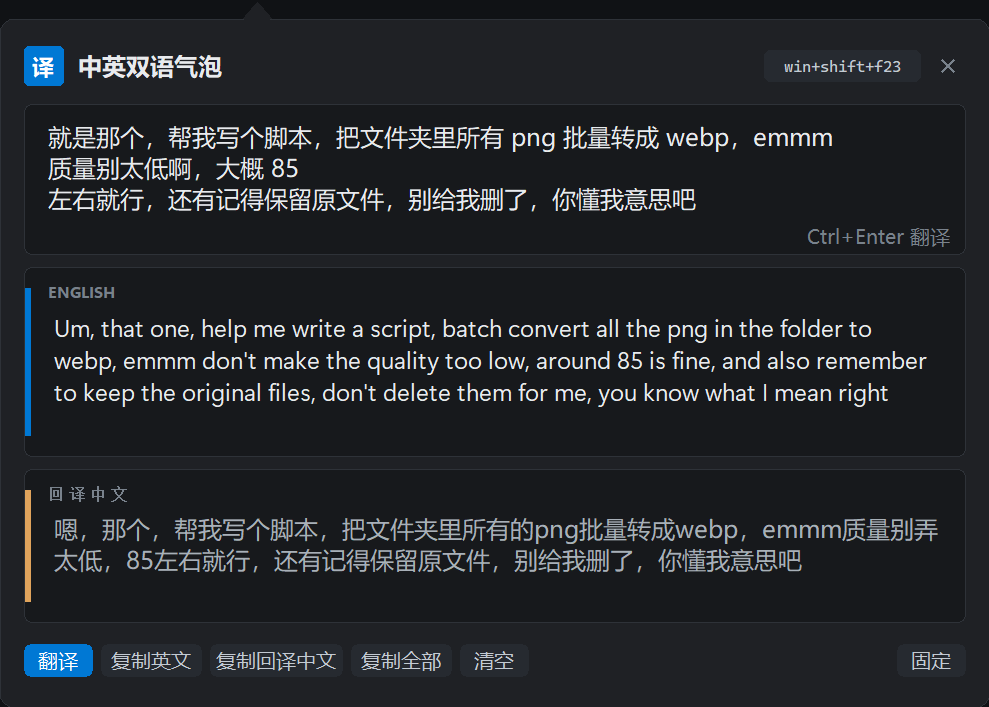
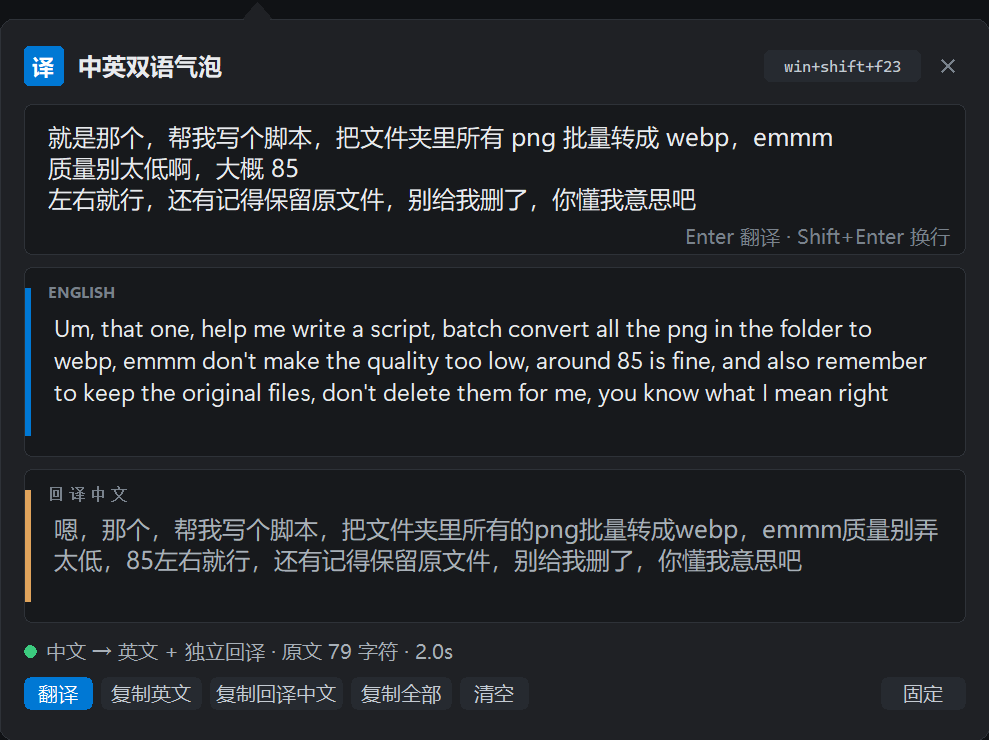
Make the buttons clickable and keep the action row visible
Two bugs behind what the user hit:

- Canvas items were created without the tag that the click handlers were
  bound to, so every button in the bubble was dead, the close button
  included. Items now carry their tag.
- The close button was an unfilled oval, so even with a tag only its outline
  hit-tested. It is now a bubble-coloured filled circle (invisible until you
  hover it), which gives it a proper click target.

Also drop the hover-reveal for the action row: it made the footer blink as
the pointer crossed the hover margin. The status line and the buttons are now
two permanent rows and never toggle.

diff --git a/translate_popup.py b/translate_popup.py
@@ -912,7 +912,7 @@ class PopupApp:
         pad = self.px(16)
         head = self.px(34)
         gap = self.px(9)
-        footer = self.px(34)
+        footer = self.px(56)
         tail = self.px(13) if (self.frameless and self.use_tail) else 0
         top_tail = tail if self.tail_edge == "top" else 0
         bottom_tail = tail if self.tail_edge == "bottom" else 0
@@ -952,6 +952,8 @@ class PopupApp:
             y += zh_h + gap
 
         rects["footer"] = (pad, y, w - pad, y + footer)
+        rects["status_row"] = (pad, y, w - pad, y + self.px(22))
+        rects["button_row"] = (pad, y + self.px(22), w - pad, y + footer)
         height = y + footer + self.px(14) + bottom_tail
         rects["bubble"] = (0, top_tail, w, height - bottom_tail)
         rects["height"] = height
@@ -972,9 +974,10 @@ class PopupApp:
                 "active": t["accent_soft"]}[kind]
         fg = {"primary": "#FFFFFF", "ghost": t["chip_text"], "danger": t["err"],
               "active": t["accent"]}[kind]
-        shape = self._round_rect(x1, y1, x2, y2, (y2 - y1) // 2, fill=fill, outline=fill)
+        shape = self._round_rect(x1, y1, x2, y2, (y2 - y1) // 2, fill=fill, outline=fill,
+                                 tags=(tag,))
         label = self.canvas.create_text(
-            (x1 + x2) // 2, (y1 + y2) // 2, text=text, fill=fg, font=self.f_status
+            (x1 + x2) // 2, (y1 + y2) // 2, text=text, fill=fg, font=self.f_status, tags=(tag,)
         )
         self.items[tag] = {"shape": shape, "label": label, "kind": kind, "fill": fill}
         self._bind_button(tag)
@@ -1044,11 +1047,12 @@ class PopupApp:
 
         cxp = (r["close"][0] + r["close"][2]) // 2
         cyp = (r["close"][1] + r["close"][3]) // 2
-        close_r = self.px(11)
+        close_r = self.px(13)
+        # 底色跟气泡一样：平时看不见，但整块都能点；悬停时才会显出浅色圆
         circle = c.create_oval(cxp - close_r, cyp - close_r, cxp + close_r, cyp + close_r,
-                               fill="", outline="")
-        cross = c.create_text(cxp, cyp, text="✕", fill=t["muted"], font=self.f_status)
-        self.items["close"] = {"shape": circle, "label": cross, "kind": "icon", "fill": ""}
+                               fill=t["bubble"], outline=t["bubble"], tags=("close",))
+        cross = c.create_text(cxp, cyp, text="✕", fill=t["muted"], font=self.f_status, tags=("close",))
+        self.items["close"] = {"shape": circle, "label": cross, "kind": "icon", "fill": t["bubble"]}
         self._bind_button("close")
 
         self._round_rect(*r["input_card"], self.px(12), fill=t["card"], outline=t["border"])
@@ -1067,7 +1071,7 @@ class PopupApp:
                 c.create_text(lx1, (ly1 + ly2) // 2, text=label, anchor="w", fill=t["muted"],
                               font=self.f_label)
 
-        fx1, fy1, fx2, fy2 = r["footer"]
+        fx1, fy1, fx2, fy2 = r["status_row"]
         cy = (fy1 + fy2) // 2
         dot_r = max(3, self.px(4))
         dot = c.create_oval(fx1, cy - dot_r, fx1 + 2 * dot_r, cy + dot_r, fill="", outline="")
@@ -1081,7 +1085,8 @@ class PopupApp:
         self._update_status()
         self._update_copied_chip()
 
-        bx = fx1
+        bx, by1, bx2, by2 = r["button_row"]
+        cy = (by1 + by2) // 2
         for tag, label, kind in (("translate", "翻译", "primary"), ("copy_en", "复制英文", "ghost"),
                                  ("copy_zh", "复制回译中文", "ghost"), ("copy_all", "复制全部", "ghost"),
                                  ("clear", "清空", "ghost")):
@@ -1144,16 +1149,15 @@ class PopupApp:
             self.items["copied"] = []
 
     def _update_footer_visibility(self) -> None:
-        show_buttons = self.hover or self.pinned
+        """按钮和状态行现在常驻显示：悬停浮现会不停闪，已经去掉了。"""
         for key in ("translate", "copy_en", "copy_zh", "copy_all", "clear", "pin"):
             item = self.items.get(key)
             if item:
-                state = "normal" if show_buttons else "hidden"
-                self.canvas.itemconfigure(item["shape"], state=state)
-                self.canvas.itemconfigure(item["label"], state=state)
+                self.canvas.itemconfigure(item["shape"], state="normal")
+                self.canvas.itemconfigure(item["label"], state="normal")
         for key in ("status", "copied"):
             for item in self.items.get(key, []):
-                self.canvas.itemconfigure(item, state="hidden" if show_buttons else "normal")
+                self.canvas.itemconfigure(item, state="normal")
 
     def _update_pin_pill(self) -> None:
         item = self.items.get("pin")
@@ -1369,14 +1373,13 @@ class PopupApp:
         if self.hover == value:
             return
         self.hover = value
-        self._update_footer_visibility()
 
     def _set_button_hover(self, tag: str, hovered: bool) -> None:
         item = self.items.get(tag)
         if not item:
             return
         if item.get("kind") == "icon":
-            color = self.tokens["chip"] if hovered else ""
+            color = self.tokens["chip"] if hovered else self.tokens["bubble"]
             self.canvas.itemconfigure(item["shape"], fill=color, outline=color)
             return
         if item["kind"] == "primary":
@@ -1968,11 +1971,11 @@ def run_snapshot(logger: logging.Logger) -> int:
         ("input", "light", "input", "idle", "输入中文开始翻译"),
         ("loading", "light", "loading", "busy", "正在做独立的回译中文（只看英文）…"),
         ("result", "light", "result", "ok", "中文 → 英文 + 独立回译 · 原文 79 字符 · 2.0s"),
-        ("hover", "light", "result", "ok", "中文 → 英文 + 独立回译 · 原文 79 字符 · 2.0s"),
+        ("pinned", "light", "result", "ok", "中文 → 英文 + 独立回译 · 原文 79 字符 · 2.0s"),
         ("error", "light", "error", "err", "接口返回 HTTP 401：Authentication Fails"),
         ("dark_input", "dark", "input", "idle", "输入中文开始翻译"),
         ("dark_result", "dark", "result", "ok", "中文 → 英文 + 独立回译 · 原文 79 字符 · 2.0s"),
-        ("dark_hover", "dark", "result", "ok", "中文 → 英文 + 独立回译 · 原文 79 字符 · 2.0s"),
+        ("dark_pinned", "dark", "result", "ok", "中文 → 英文 + 独立回译 · 原文 79 字符 · 2.0s"),
     )
     for name, theme, state, kind, status in cases:
         cfg = load_config()
@@ -1989,8 +1992,8 @@ def run_snapshot(logger: logging.Logger) -> int:
         app.state = state
         app.status_kind = kind
         app.status_text = status
-        app.hover = name.endswith("hover")
-        app.pinned = False
+        app.hover = False
+        app.pinned = name.endswith("pinned")
         app.progress = 0.35
         app.tail_edge = "top"
         app.win_x = 0

diff --git a/README.md b/README.md
@@ -28,7 +28,7 @@ original files, don't delete them for me, you know what I mean right
 85左右就行，还有记得保留原文件，别给我删了，你懂我意思吧
 ```
 
-界面是一块无边框的圆角气泡，尖角指向鼠标。触发时只是个小输入条，出结果后往下展开，配色跟着系统深浅色走。鼠标移进去会浮出操作按钮，移开自动收起，需要的话可以点固定。
+界面是一块无边框的圆角气泡，尖角指向鼠标。触发时只是个小输入条，出结果后往下展开，配色跟着系统深浅色走，底部按钮一直都在。
 
 ![dark](assets/dark.png)
 
@@ -44,7 +44,7 @@ python translate_popup.py --install-startup   # 开机常驻；也可以直接 p
 
 - `Enter` 直接翻译，`Shift+Enter` 换行，`Esc` 关闭
 - `Ctrl+1` / `Ctrl+2` 复制英文 / 复制回译中文，`Ctrl+Shift+C` 复制全部
-- 鼠标悬停浮出按钮，移开自动收起，可以点固定
+- 鼠标移开气泡会自动收起，想让它留着就点「固定」
 - 按住气泡空白处可以拖动
 
 ## 配置
